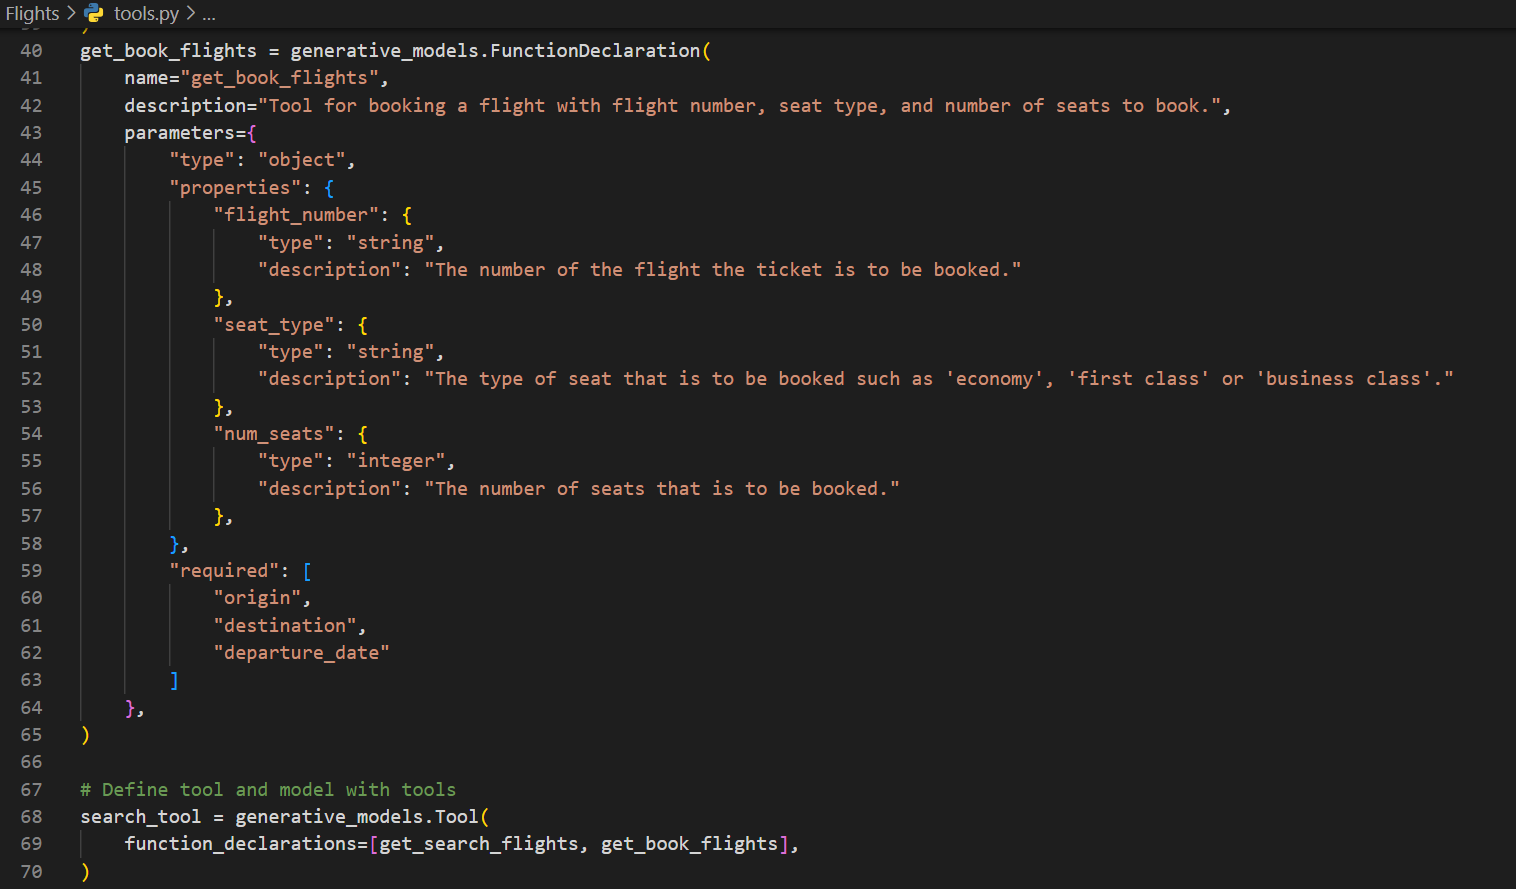
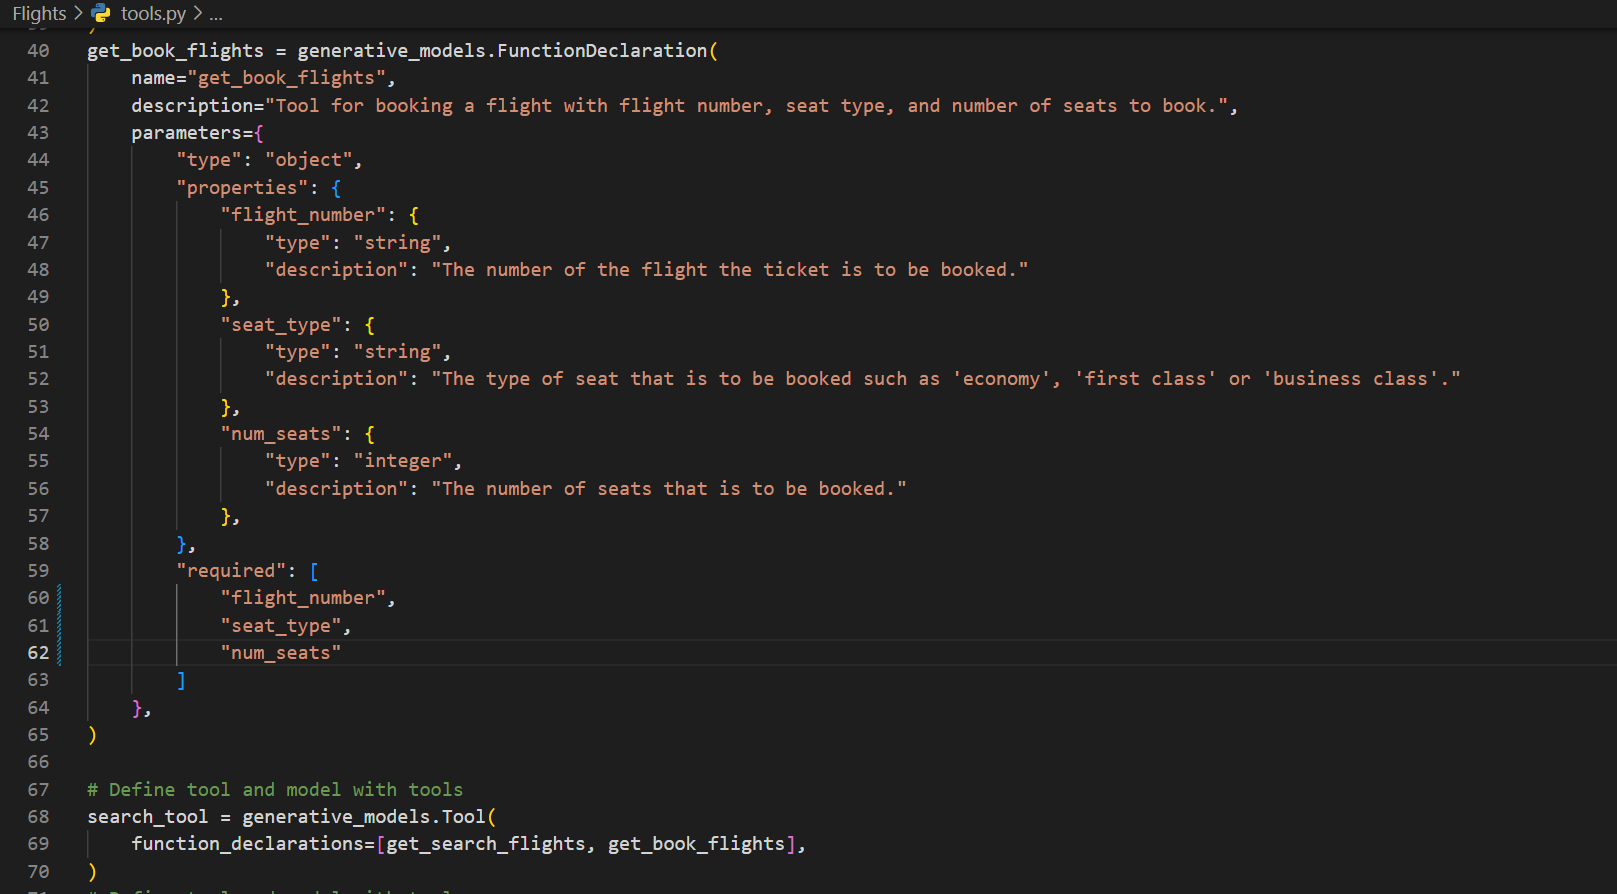
read me complete

Changed region(s): [[0.0, 0.0, 0.9301, 1.0], [0.093, 0.6074, 0.248, 0.7593], [0.062, 0.7897, 0.093, 0.82]]

diff --git a/README.md b/README.md
@@ -1,60 +1,62 @@
-# Gemini Flight Manager
+# Gemini Flights 
 
-## Overview
+## Description
 
-Gemini Flight Manager is a comprehensive backend system built using FastAPI, designed for managing and simulating flight-related operations. This system provides a robust platform for handling various aspects of flight management, including flight generation, search, and booking functionalities.
+Gemini Flights is an intermediate level mission created by Mikhail Ocampo at RadicalX. The app was set up in a way that it introduces itself as a Google Gemini Powered agent which helps the user with flight details such as searching for available flights when the user gives a prompt to search for a flight with origin and destination on a specific date. The mission for the interns  is to create a booking tool for the app where it books a flight ticket for the user when prompted for a specific flight and seat type such as 'economy', 'business class', 'first class'.
 
-The project leverages FastAPI's efficient and easy-to-use framework to create a high-performance, scalable solution ideal for flight data management. It comes equipped with an SQLite database (`flights.db`) pre-populated with initial data, allowing for quick deployment and testing.
+## Steps Involved
 
-Key features of Gemini Flight Manager include:
-- Advanced search capabilities to query flights based on criteria like origin, destination, and dates.
-- Booking system that handles seat availability across different classes and calculates costs accordingly.
+### Step 1
+Setting up Google Cloud Account. Create a project in Google cloud. Enable all recommended APIs in VertexAI section.
+### Step 2
+Fork premade fast API server from the provided link. Clone the forked GitHub account. Set up the Google Cloud project with the GitHub account and run the project on virtual environment, Backend and Frontend on separate terminals.
+### Step 3
+Integrate Google Cloud SDK for Vertex AI. Download, Install and initialize SDK and setup Python for VertexAI with proper authentication.
+### Step 4
+Define and load functions for Gemini Flights! Use FunctionDeclaration to craft the get_book_flights function, encapsulate it in a Tool class, and configure the GenerativeModel.
+### Step 5
+Implement a response handling system and integrate it with Streamlit for effective communication with Google Gemini. Ensure proper initialization of the chat session and handling of various response types.
+### Step 6
+Implement the book_flight function in Flight_Manager.py, define its function declaration, and update the tool class to bind the new function to Gemini for flight booking.
 
-Designed with extensibility and scalability in mind, Gemini Flight Manager is well-suited for both educational purposes and as a foundation for more complex flight management applications.
+## How the frontend performs
+!["frontend"](./assets/Booking%20of%20requested%20flight%20ticket%20frontend.png)
 
-**For the purposes of Gemini Function Calling, you will only need `search_flights` and `book_flight` functions.
+## How the backend performs
+!["backend"](./assets/Booking%20of%20requested%20flight%20ticket%20backend.png)
 
-## Installation
+## New code that was added
+!["flightBookCriteria"](./assets/FlightBookCriteriaInModels.png)
+!["bookFlightsFunction"](./assets/FlightManagerBookFlightsFunction.png)
+!["getBookFlights"](./assets/GetBookFlightsInTools.png)
+!["handleResponse"](./assets/HandleResponseChangeInTools.png)
 
-### Prerequisites
-Before you begin, ensure you have the following installed on your system:
-- Python 3.6 or higher
-- FastAPI
-- Uvicorn, an ASGI server for FastAPI
+## Technologies used
+### Tools used to build the project
+1. Google Cloud
+2. Google Gemini
+3. Fast API
+4. Streamlit
+5. Vertex AI
+6. Python
+7. Visual Studio Code
+8. GitHub
 
-### Step-by-Step Installation Guide
+### Tools used to research 
+1. ReX from RadicalX AI platform
+2. Google 
+3. Chat GPT
 
-1. **Clone the Repository**
-   
-   Start by cloning the repository to your local machine. Use the following command:
-   ```bash
-   git clone https://github.com/your-username/your-repository.git
-   cd your-repository
+## Acknowledgment
+- Thanks to Talha Sabri for this opportunity at RadicalX
 
-## Set Up a Virtual Environment (Optional but recommended)
+- Thanks to Mikhail Ocampo for building this mission
 
-It's a good practice to create a virtual environment for your Python projects. This keeps your project dependencies isolated. If you have `virtualenv` installed, create a new environment with:
+- Thanks to Aniketh Rai for helping me solve some errors
 
-```bash
-virtualenv venv
-source venv/bin/activate
-```
+## Loom Video Created 
+Click ["here"](https://jam.dev/c/78af6b0f-1e5b-452e-9680-0275bbd1fc15) to wacth the demonstration.
 
-## Install Dependencies
-Inside the virtual environment, install all necessary dependencies by running:
-```bash
-pip install -r requirements.txt
-```
-
-## Starting the FastAPI Server
-
-After the installation, you can start the FastAPI server using Uvicorn. Navigate to the project directory and run:
-
-```bash
-uvicorn main:app
-```
-
-## Accessing the API
-With the server running, you can access the API at `http://127.0.0.1:8000.`
-
-For interactive API documentation, visit `http://127.0.0.1:8000/docs`, where you can test the API endpoints directly from your browser.
+## About RadicalX
+![RadicalX](https://i.imgur.com/1yxvh5u.png)
+RadicalX is pioneering an immersive digital world designed specifically for Gen Z developers.
